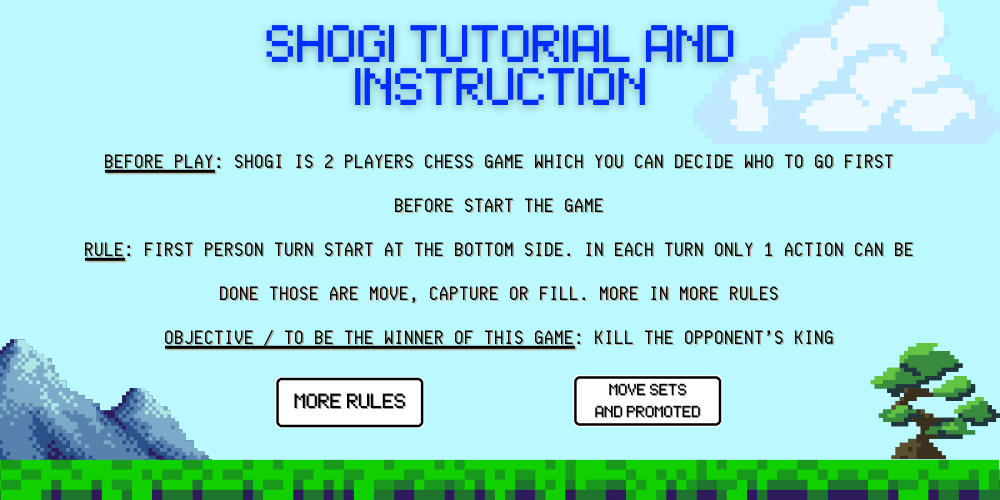
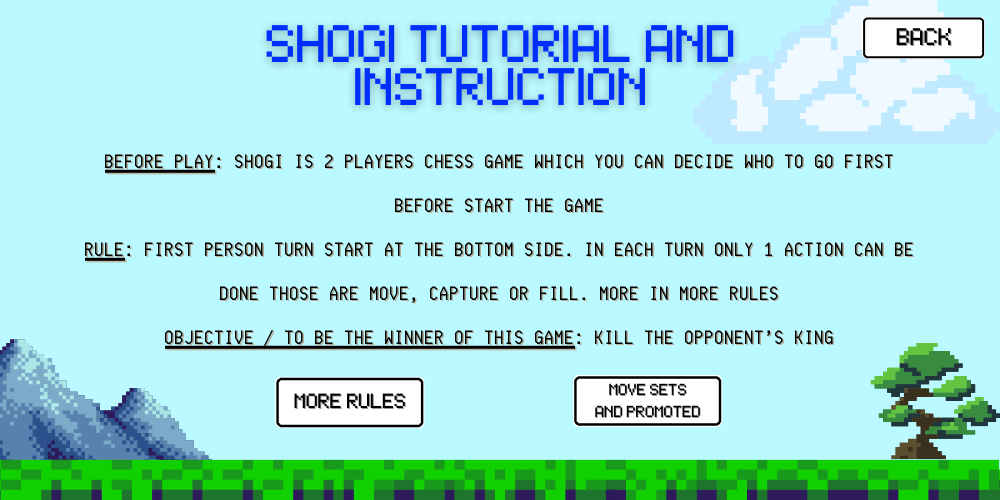
fix invisible button

Changed region(s): [[0.837, 0.03, 0.992, 0.12]]

diff --git a/sfmll/main.cpp b/sfmll/main.cpp
@@ -139,13 +139,9 @@ int main()
 						TutorialScreen = true;
 					}
 						if (TutorialScreen) {
-							// Define buttons
-						
-							sf::FloatRect moreRulesButton(280, 380, 145, 45); // (x, y, width, height)
-							sf::FloatRect moveSetsButton(580, 380, 145, 45);
-							sf::FloatRect moveSets2Button(860, 400, 145, 45);
-							sf::FloatRect backButton(860, 20, 145, 45);
-
+							if (tutorialPage == 0) {
+								FloatRect moreRulesButton(280, 380, 145, 45); // (x, y, width, height)
+								FloatRect moveSetsButton(580, 380, 145, 45);
 								if (moreRulesButton.contains(mousePos)) {
 									cout << "1!" << endl;
 									tutorialPage = 1;
@@ -156,11 +152,18 @@ int main()
 									tutorialPage = 2;
 									tutorialSprite.setTexture(textures[tutorialPage]);
 								}
+							}
+							else if (tutorialPage == 2) {
+								FloatRect moveSets2Button(860, 400, 145, 45);
 								if (moveSets2Button.contains(mousePos)) {
 									cout << "3!" << endl;
 									tutorialPage = 3;
 									tutorialSprite.setTexture(textures[tutorialPage]);
 								}
+							}
+							FloatRect backButton(860, 20, 145, 45);
+
+								
 
 								if (backButton.contains(mousePos)) {
 									cout << "Back button clicked!" << endl;
@@ -168,11 +171,12 @@ int main()
 									if (tutorialPage == 3) {
 										tutorialPage = 2;  // Go from Page 3 to Page 2
 									}
-									else if (tutorialPage == 2) {
+									else if (tutorialPage == 2 || tutorialPage == 1) {
 										tutorialPage = 0;  // Go from Page 2 to Page 0
 									}
-									else if (tutorialPage == 1) {
-										tutorialPage = 0;  // Go from Page 1 to Page 0
+									else if (tutorialPage == 0) {
+										TutorialScreen = false;
+										
 									}
 
 									tutorialSprite.setTexture(textures[tutorialPage]);
